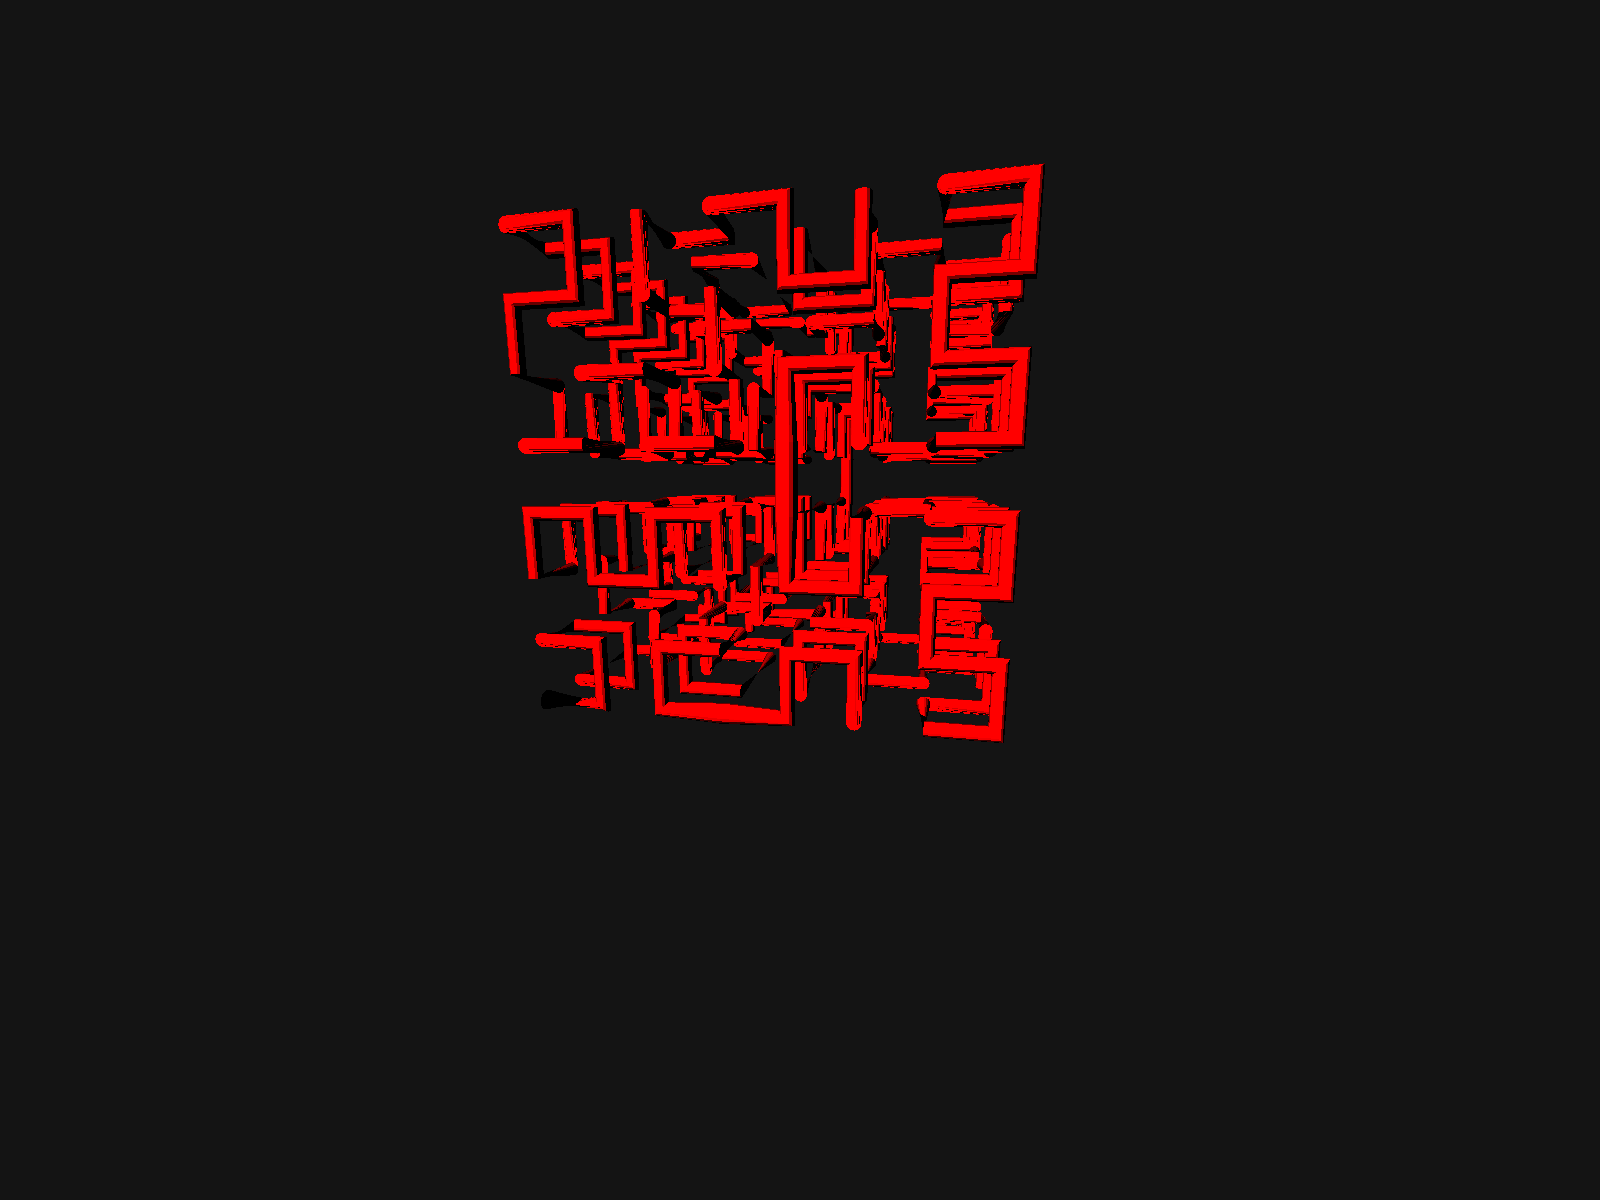
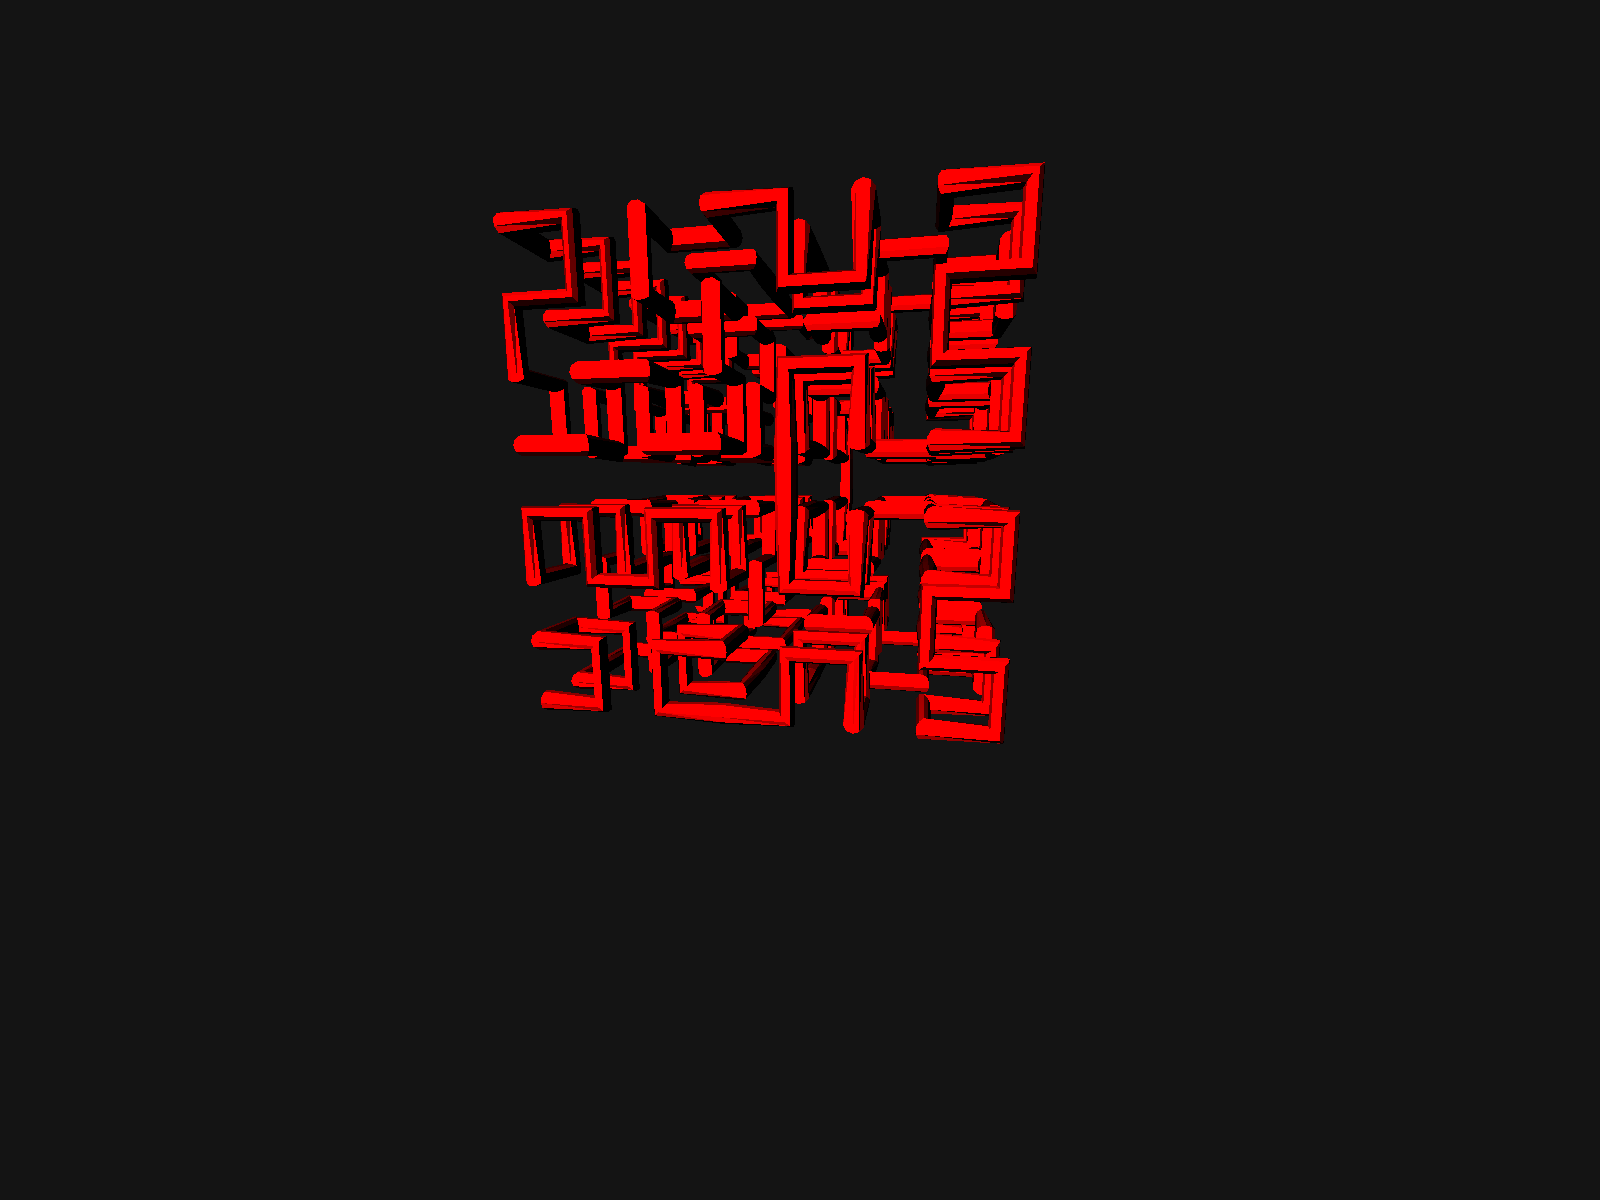
fix buildfrompoints for equal sized circle radials

Changed region(s): [[0.3125, 0.1233, 0.6562, 0.6167]]

diff --git a/gen/parametric.go b/gen/parametric.go
@@ -34,7 +34,6 @@ func NewC2Differentiable(f1, f2, f3 ParametricFunction) c2Differentiable {
 		secondDerivative: f3,
 	}
 }
-
 func (c c2) Function() ParametricFunction {
 	return c.function
 }
@@ -166,23 +165,84 @@ func (re radialEllipse) Points(p, normal, binormal m.Vector, t float64) []m.Vect
 
 // assumption: radial does not depend on t
 // ez taken as random vector to calculate normal/binormal
-func BuildFromPoints(radial radial2d, points []m.Vector, mat m.Material) m.Object {
-	ez := m.Vector{0, 0, 1}
-	ey := m.Vector{0, 1, 0}
+// TODO: random normal leads to crossed bindings
+// new assumption: radial is always a circle with the same radius
+func BuildFromPoints(radial radialEllipse, points []m.Vector, mat m.Material) m.Object {
+	normal := m.Vector{0, 0, -1}
+	binormal := m.Vector{0, 1, 0}
 	radialPoints := make([][]m.Vector, len(points))
+	radius := radial.radiusx(0)
 
-	radialPoints[0] = radial.Points(points[0], ez, ey, 0)
+	radialPoints[0] = radial.Points(points[0], normal, binormal, 0)
 	for i := 1; i < len(points)-1; i++ {
 		p := points[i]
 		prev := points[i-1]
 		next := points[i+1]
-		binormal := ez.Cross(m.VectorFromTo(next, prev).Normalize())
-		// for points in XY plane, this should equate to ez
-		normal := binormal.Cross(m.VectorFromTo(p, next).Normalize())
+		prevnext := m.VectorFromTo(prev, next).Normalize()
+		n_temp := m.Vector{0, 0, 1}.Cross(prevnext).Normalize()
+		b_temp := prevnext.Cross(n_temp).Normalize()
+
+		//temp normal/binormal are now semirandom vectors in the circle slice between points
+		//we can translate the previous normal/binormal on that circle using a plane intersection test
+
+		planenormal := n_temp.Cross(b_temp).Normalize()
+		rdirection := m.VectorFromTo(prev, p).Normalize()
+		rorigin := prev.Add(normal.Times(radius))
+		ln := rdirection.Dot(planenormal)
+		d := m.VectorFromTo(rorigin, p).Dot(planenormal) / ln
+		npoint := rorigin.Add(rdirection.Times(d))
+		normal = m.VectorFromTo(p, npoint).Normalize()
+
+		rorigin = prev.Add(binormal.Times(radius))
+		d = m.VectorFromTo(rorigin, p).Dot(planenormal) / ln
+		bpoint := rorigin.Add(rdirection.Times(d))
+		binormal = m.VectorFromTo(p, bpoint).Normalize()
+
 		radialPoints[i] = radial.Points(p, normal, binormal, 0)
 	}
-	radialPoints[len(points)-1] = radial.Points(points[len(points)-1], ez, ey, 0)
+	radialPoints[len(points)-1] = radial.Points(points[len(points)-1], normal, binormal, 0)
 
 	triangles := JoinPoints(radialPoints, mat)
 	return m.NewComplexObject(triangles)
+}
+
+func BuildFromPointsWithReference(radial radial2d, points []m.Vector, normals []m.Vector, binormals []m.Vector, mat m.Material) m.Object {
+	radialPoints := make([][]m.Vector, len(points))
+
+	normal := normals[0]
+	binormal := binormals[0]
+	for i := 0; i < len(points)-1; i++ {
+		p := points[i]
+		normal = normals[i+1].Add(normals[i]).Normalize()
+		binormal = binormals[i+1].Add(binormals[i]).Normalize()
+		radialPoints[i] = radial.Points(p, normal, binormal, 0)
+	}
+
+	radialPoints[len(points)-1] = radial.Points(points[len(points)-1], normal, binormal, 0)
+
+	triangles := JoinPoints(radialPoints, mat)
+	return m.NewComplexObject(triangles)
+}
+
+// build path of points: node object at each point, radial around vertices
+// assumption: points are on a line
+func BuildNodesVertices(node m.Object, radial radial2d, points []m.Vector, mat m.Material) m.Object {
+	objects := []m.Object{}
+	ez := m.Vector{0, 0, 1}
+
+	for i := 0; i < len(points)-1; i++ {
+		p := points[i]
+		next := points[i+1]
+		objects = append(objects, m.NewSharedObject(node, m.Translate(p)))
+		heading := m.VectorFromTo(p, next).Normalize()
+		normal := ez.Cross(heading).Normalize()
+		binormal := normal.Cross(heading)
+		radialP := radial.Points(p, normal, binormal, 0)
+		radialNext := radial.Points(next, normal, binormal, 0)
+		pointsList := [][]m.Vector{radialP, radialNext}
+		objects = append(objects, JoinPoints(pointsList, mat)...)
+	}
+	translation := m.Translate(points[len(points)-1])
+	objects = append(objects, m.NewSharedObject(node, translation))
+	return m.NewComplexObject(objects)
 }

diff --git a/gen/lindenmayer.go b/gen/lindenmayer.go
@@ -21,12 +21,18 @@ type Lsystem struct {
 	Productions map[rune]string
 }
 
+type LsystemAnswer struct {
+	Points    []m.Vector
+	Normals   []m.Vector
+	Binormals []m.Vector
+}
+
 // rewrite axiom n times according to productions
 // then draw points from the result string
 // d is length of initial line drawn by F at iteration 0
 // dFactor is the factor by which d shrinks every iteration
 // delta is the size of angle change by orientation changes
-func (l Lsystem) Evaluate(n int, d, dFactor, delta float64) []m.Vector {
+func (l Lsystem) Evaluate(n int, d, dFactor, delta float64) LsystemAnswer {
 	s := l.Axiom
 	for i := 0; i < n; i++ {
 		s = l.rewrite(s)
@@ -48,18 +54,22 @@ func (l Lsystem) rewrite(s string) string {
 	return newS
 }
 
-func (l Lsystem) draw(s string, d, delta float64) []m.Vector {
+func (l Lsystem) draw(s string, d, delta float64) LsystemAnswer {
 	// turtle starts in origin facing up
 	origin := m.Vector{0, 0, 0}
 	H, L, U := m.Vector{0, 1, 0}, m.Vector{1, 0, 0}, m.Vector{0, 0, 1}
-	t := turtle{origin, m.Vector{0, 1, 0}.Times(d)}
+	t := turtle{origin, H.Times(d)}
 
 	points := []m.Vector{t.pos}
+	normals := []m.Vector{U}
+	binormals := []m.Vector{L}
 	for _, r := range s {
 		switch r {
 		case 'F', 'G', 'L', 'R':
 			t.pos = t.pos.Add(t.heading)
 			points = append(points, t.pos)
+			normals = append(normals, U)
+			binormals = append(binormals, L)
 		case '+':
 			t.heading, L, H = transformAxes(delta, U, t.heading, L, H)
 		case '-':
@@ -76,7 +86,11 @@ func (l Lsystem) draw(s string, d, delta float64) []m.Vector {
 			t.heading, L, H = transformAxes(math.Pi, U, t.heading, L, H)
 		}
 	}
-	return points
+	return LsystemAnswer{
+		Points:    points,
+		Normals:   normals,
+		Binormals: binormals,
+	}
 }
 
 // rotate turtle heading and the other axes delta degrees around the principal axis
@@ -89,7 +103,7 @@ func transformAxes(delta float64, rotationAxis, th, n, bn m.Vector) (m.Vector, m
 }
 
 // some famous 2D L-system examples from the book:
-func QuadraticKochIsland(n int) []m.Vector {
+func QuadraticKochIsland(n int) LsystemAnswer {
 	l := Lsystem{
 		Axiom: "F-F-F-F",
 		Productions: map[rune]string{
@@ -99,7 +113,7 @@ func QuadraticKochIsland(n int) []m.Vector {
 	return l.Evaluate(n, 1.0, 0.25, math.Pi/2.0)
 }
 
-func DragonCurve(n int) []m.Vector {
+func DragonCurve(n int) LsystemAnswer {
 	l := Lsystem{
 		Axiom: "F",
 		Productions: map[rune]string{
@@ -110,7 +124,7 @@ func DragonCurve(n int) []m.Vector {
 	return l.Evaluate(n, 1.0, 0.75, math.Pi/2.0)
 }
 
-func HexagonalGosperCurve(n int) []m.Vector {
+func HexagonalGosperCurve(n int) LsystemAnswer {
 	l := Lsystem{
 		Axiom: "F",
 		Productions: map[rune]string{
@@ -121,7 +135,7 @@ func HexagonalGosperCurve(n int) []m.Vector {
 	return l.Evaluate(n, 1.0, 0.5, math.Pi/3.0)
 }
 
-func PeanoCurve(n int) []m.Vector {
+func PeanoCurve(n int) LsystemAnswer {
 	l := Lsystem{
 		Axiom: "L",
 		Productions: map[rune]string{
@@ -133,7 +147,7 @@ func PeanoCurve(n int) []m.Vector {
 }
 
 // and some 3D examples:
-func HilbertCurve3D(n int) []m.Vector {
+func HilbertCurve3D(n int) LsystemAnswer {
 	l := Lsystem{
 		Axiom: "A",
 		Productions: map[rune]string{

diff --git a/main.go b/main.go
@@ -38,11 +38,10 @@ func main() {
 	// points := gen.QuadraticKochIsland(4)
 	// points := gen.DragonCurve(10)
 	// points := gen.HexagonalGosperCurve(3)
-	// points := gen.PeanoCurve(2)
-	points := gen.HilbertCurve3D(3)
-	points = gen.CenterPointsOnOrigin(points)
-
-	radial := gen.NewRadialCircle(func(t float64) float64 { return 0.02 }, 20)
+	//answer := gen.PeanoCurve(1)
+	answer := gen.HilbertCurve3D(3)
+	points := gen.CenterPointsOnOrigin(answer.Points)
+	radial := gen.NewRadialCircle(func(t float64) float64 { return 0.02 }, 10)
 	o := gen.BuildFromPoints(radial, points, diffMat)
 	c := m.NewSharedObject(o, transform)
 	scene.Add(c)
@@ -55,4 +54,64 @@ func main() {
 	camera.LookAt(from, to, ey)
 	film := render.Render(scene, numWorkers)
 	film.SaveAsPNG("out.png")
+}
+
+func SaveObj(o m.Object) string {
+	triangles := trianglesFromObject(o)
+	vertices := []m.Vector{}
+	vertexMap := map[m.Vector]int64{}
+	faces := make([]m.Face, len(triangles))
+	for i, t := range triangles {
+		v0, ok := vertexMap[t.P0]
+		if !ok {
+			v0 = int64(len(vertexMap)) + 1
+			vertexMap[t.P0] = v0
+			vertices = append(vertices, t.P0)
+		}
+		v1, ok := vertexMap[t.P1]
+		if !ok {
+			v1 = int64(len(vertexMap)) + 1
+			vertexMap[t.P1] = v1
+			vertices = append(vertices, t.P1)
+		}
+		v2, ok := vertexMap[t.P2]
+		if !ok {
+			v2 = int64(len(vertexMap)) + 1
+			vertexMap[t.P2] = v2
+			vertices = append(vertices, t.P2)
+		}
+		// TODO: coordinate handedness!
+		faces[i] = m.Face{v2, v1, v0}
+	}
+
+	s := ""
+	for _, v := range vertices {
+		s += fmt.Sprintf("v %f %f %f\n", v.X, v.Y, v.Z)
+	}
+	for _, f := range faces {
+		s += fmt.Sprintf("f %d %d %d\n", f.V0, f.V1, f.V2)
+	}
+	return s
+}
+
+func trianglesFromObject(objects ...m.Object) []m.Triangle {
+	triangles := []m.Triangle{}
+	for _, o := range objects {
+		switch t := o.(type) {
+		case m.Triangle:
+			triangles = append(triangles, t)
+		case *m.ComplexObject:
+			triangles = append(triangles, trianglesFromObject(t.Objects()...)...)
+		case *m.SharedObject:
+			trs := trianglesFromObject(t.Object)
+			for _, tr := range trs {
+				p0 := t.ObjectToWorld.Point(tr.P0)
+				p1 := t.ObjectToWorld.Point(tr.P1)
+				p2 := t.ObjectToWorld.Point(tr.P2)
+				newTr := m.NewTriangle(p0, p1, p2, tr.Material)
+				triangles = append(triangles, newTr)
+			}
+		}
+	}
+	return triangles
 }
